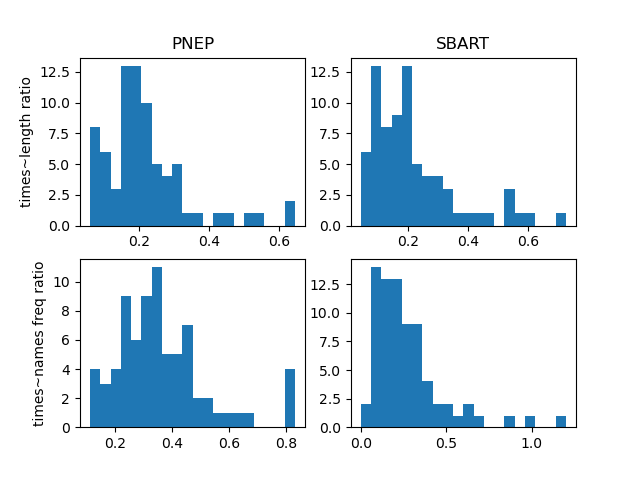
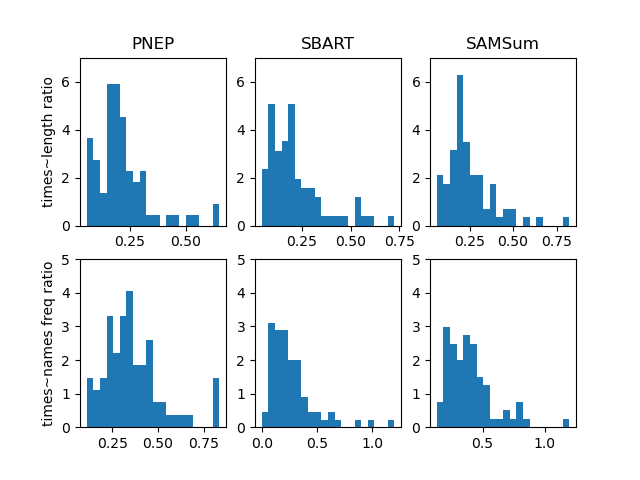
update KL expression

diff --git a/src/PNEP/draw.py b/src/PNEP/draw.py
@@ -106,6 +106,7 @@ if __name__ == '__main__':
 
     # fg = plt.figure()
     plt.subplot(2,3,3)
+    plt.title('SAMSum')
     abs_deg_SAMSum_lens = np.array(summarized_SAMSum_lens) / np.array(original_lens)
     plt.ylim(yl1)
     plt.hist(abs_deg_SAMSum_lens, bins=20, label='SAMSum', density=True)
@@ -127,13 +128,13 @@ if __name__ == '__main__':
     ratio = np.array([abs(summarized_SAMSum_lens[i] - summarized_lens2[i]) for i in range(len(summarized_SAMSum_lens))]) / np.array(summarized_SAMSum_lens)
     print('SABART: '+str(np.average(ratio)))
     print("-" * 50)
-    print('asymmetric KL divergence on length: ')
+    print('asymmetric KL divergence on ratio distribution: ')
     print('PNEP: '+str(asymmetricKL(np.array(abs_deg_SAMSum_lens), np.array(abs_deg_PNEP_lens))) + ' and '+ str(asymmetricKL(np.array(abs_deg_PNEP_lens), np.array(abs_deg_SAMSum_lens))))
 
     print('SABART: '+str(asymmetricKL(np.array(abs_deg_SAMSum_lens), np.array(abs_deg_SBART_lens))) + ' and '+ str(asymmetricKL(np.array(abs_deg_SBART_lens), np.array(abs_deg_SAMSum_lens))))
     print("-" * 50)
 
-    print('symmetric KL divergence on length: ')
+    print('symmetric KL divergence on ratio distribution: ')
     print('PNEP: '+str(symmetricalKL(np.array(abs_deg_SAMSum_lens), np.array(abs_deg_PNEP_lens))) )
     print('SABART: '+str(symmetricalKL(np.array(abs_deg_SAMSum_lens), np.array(abs_deg_SBART_lens))) )
 
